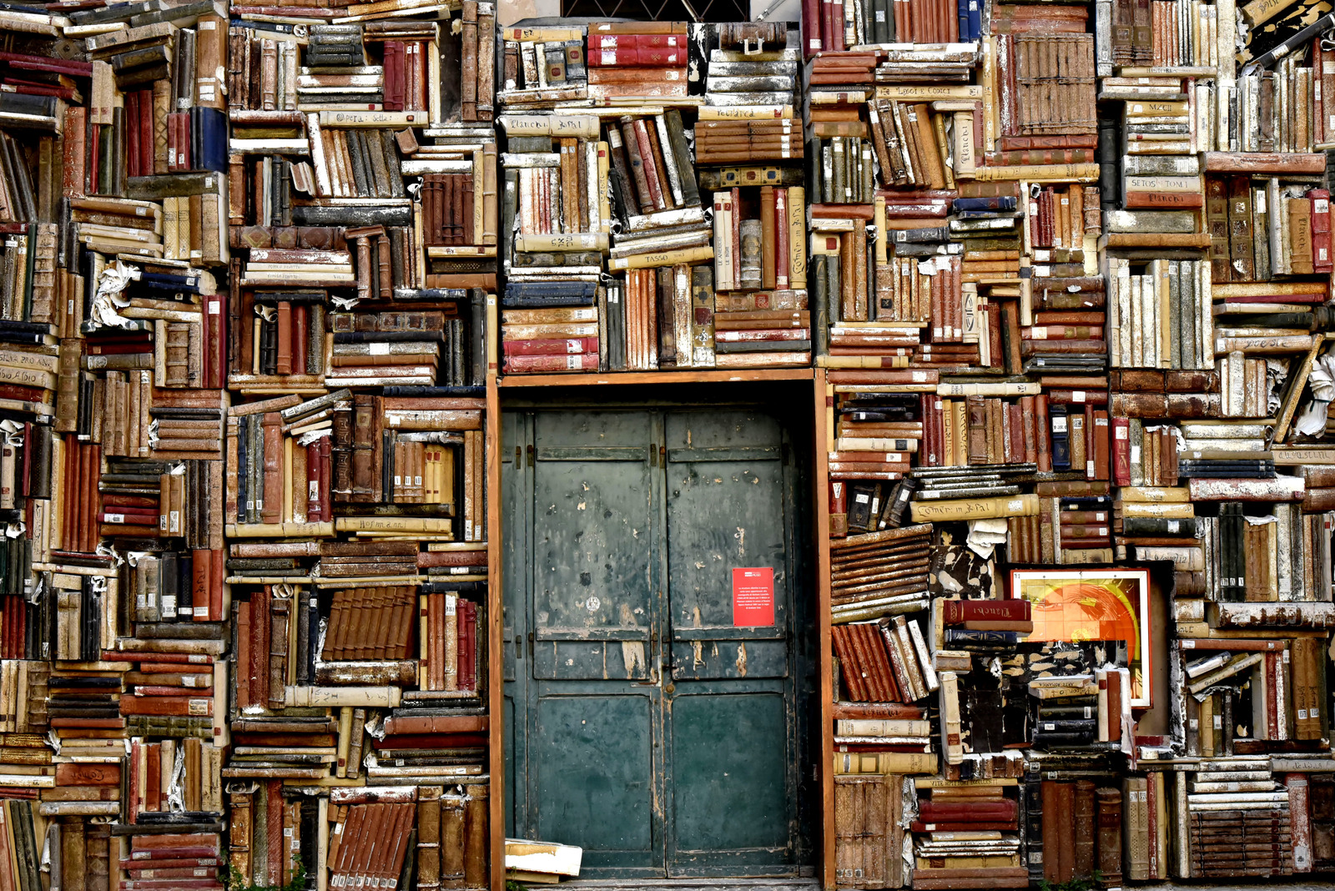
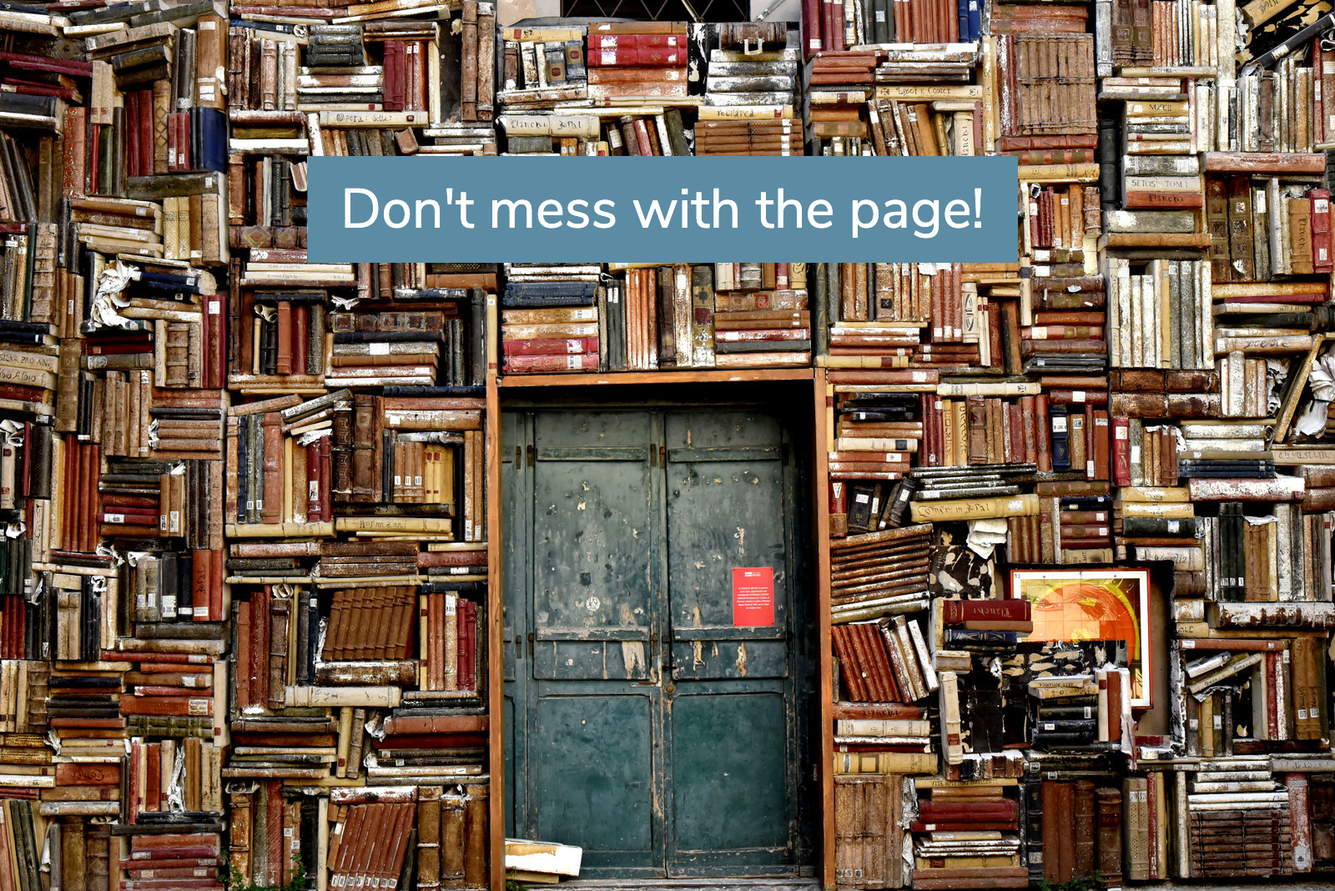
405 backbround photo changed

Changed region(s): [[0.2188, 0.1545, 0.7812, 0.309]]

diff --git a/templates/405.html b/templates/405.html
@@ -4,11 +4,6 @@
 <section>
     <div class="wrong">
         <img src="../static/images/Canva_null.jpg" alt="Bookshelf, unorganized books">
-        <div class="text-block">
-            <div>
-                <h4>Don't mess with the page!</h4>
-            </div>
-        </div>
     </div>
 </section>
 
